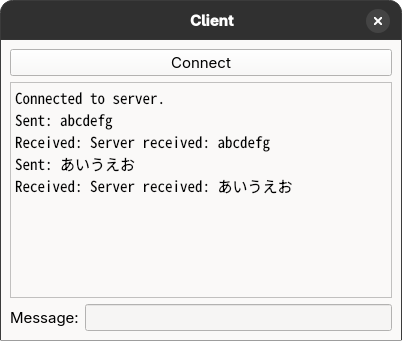
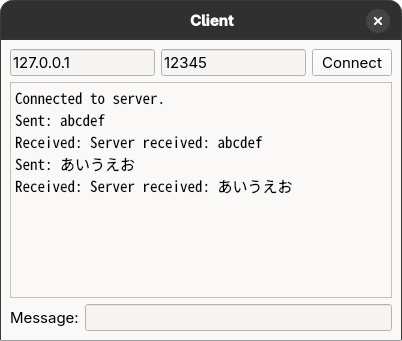
update

diff --git a/qt_tcpsocket_client.py b/qt_tcpsocket_client.py
@@ -5,6 +5,7 @@ import sys
 from PySide6.QtWidgets import (
     QApplication,
     QFormLayout,
+    QHBoxLayout,
     QLineEdit,
     QMainWindow,
     QPushButton,
@@ -35,9 +36,18 @@ class TcpSocketClient(QMainWindow):
         layout = QVBoxLayout()
         base.setLayout(layout)
 
+        layout_row = QHBoxLayout()
+        layout.addLayout(layout_row)
+
+        self.ledit_ip = ledit_ip = QLineEdit("127.0.0.1")
+        layout_row.addWidget(ledit_ip)
+
+        self.ledit_port = ledit_port = QLineEdit("12345")
+        layout_row.addWidget(ledit_port)
+
         but_connect = QPushButton("Connect")
         but_connect.clicked.connect(self.connect_to_server)
-        layout.addWidget(but_connect)
+        layout_row.addWidget(but_connect)
 
         self.tedit = tedit = QTextEdit(self)
         tedit.setStyleSheet("QTextEdit {font-family: monospace;}")
@@ -51,7 +61,11 @@ class TcpSocketClient(QMainWindow):
         layout.addLayout(form)
 
     def connect_to_server(self):
-        self.socket.connectToHost(QHostAddress.SpecialAddress.LocalHost, 12345)
+        #self.socket.connectToHost(QHostAddress.SpecialAddress.LocalHost, 12345)
+        self.socket.connectToHost(
+            self.ledit_ip.text(),
+            int(self.ledit_port.text())
+        )
 
     def connected(self):
         self.tedit.append("Connected to server.")
